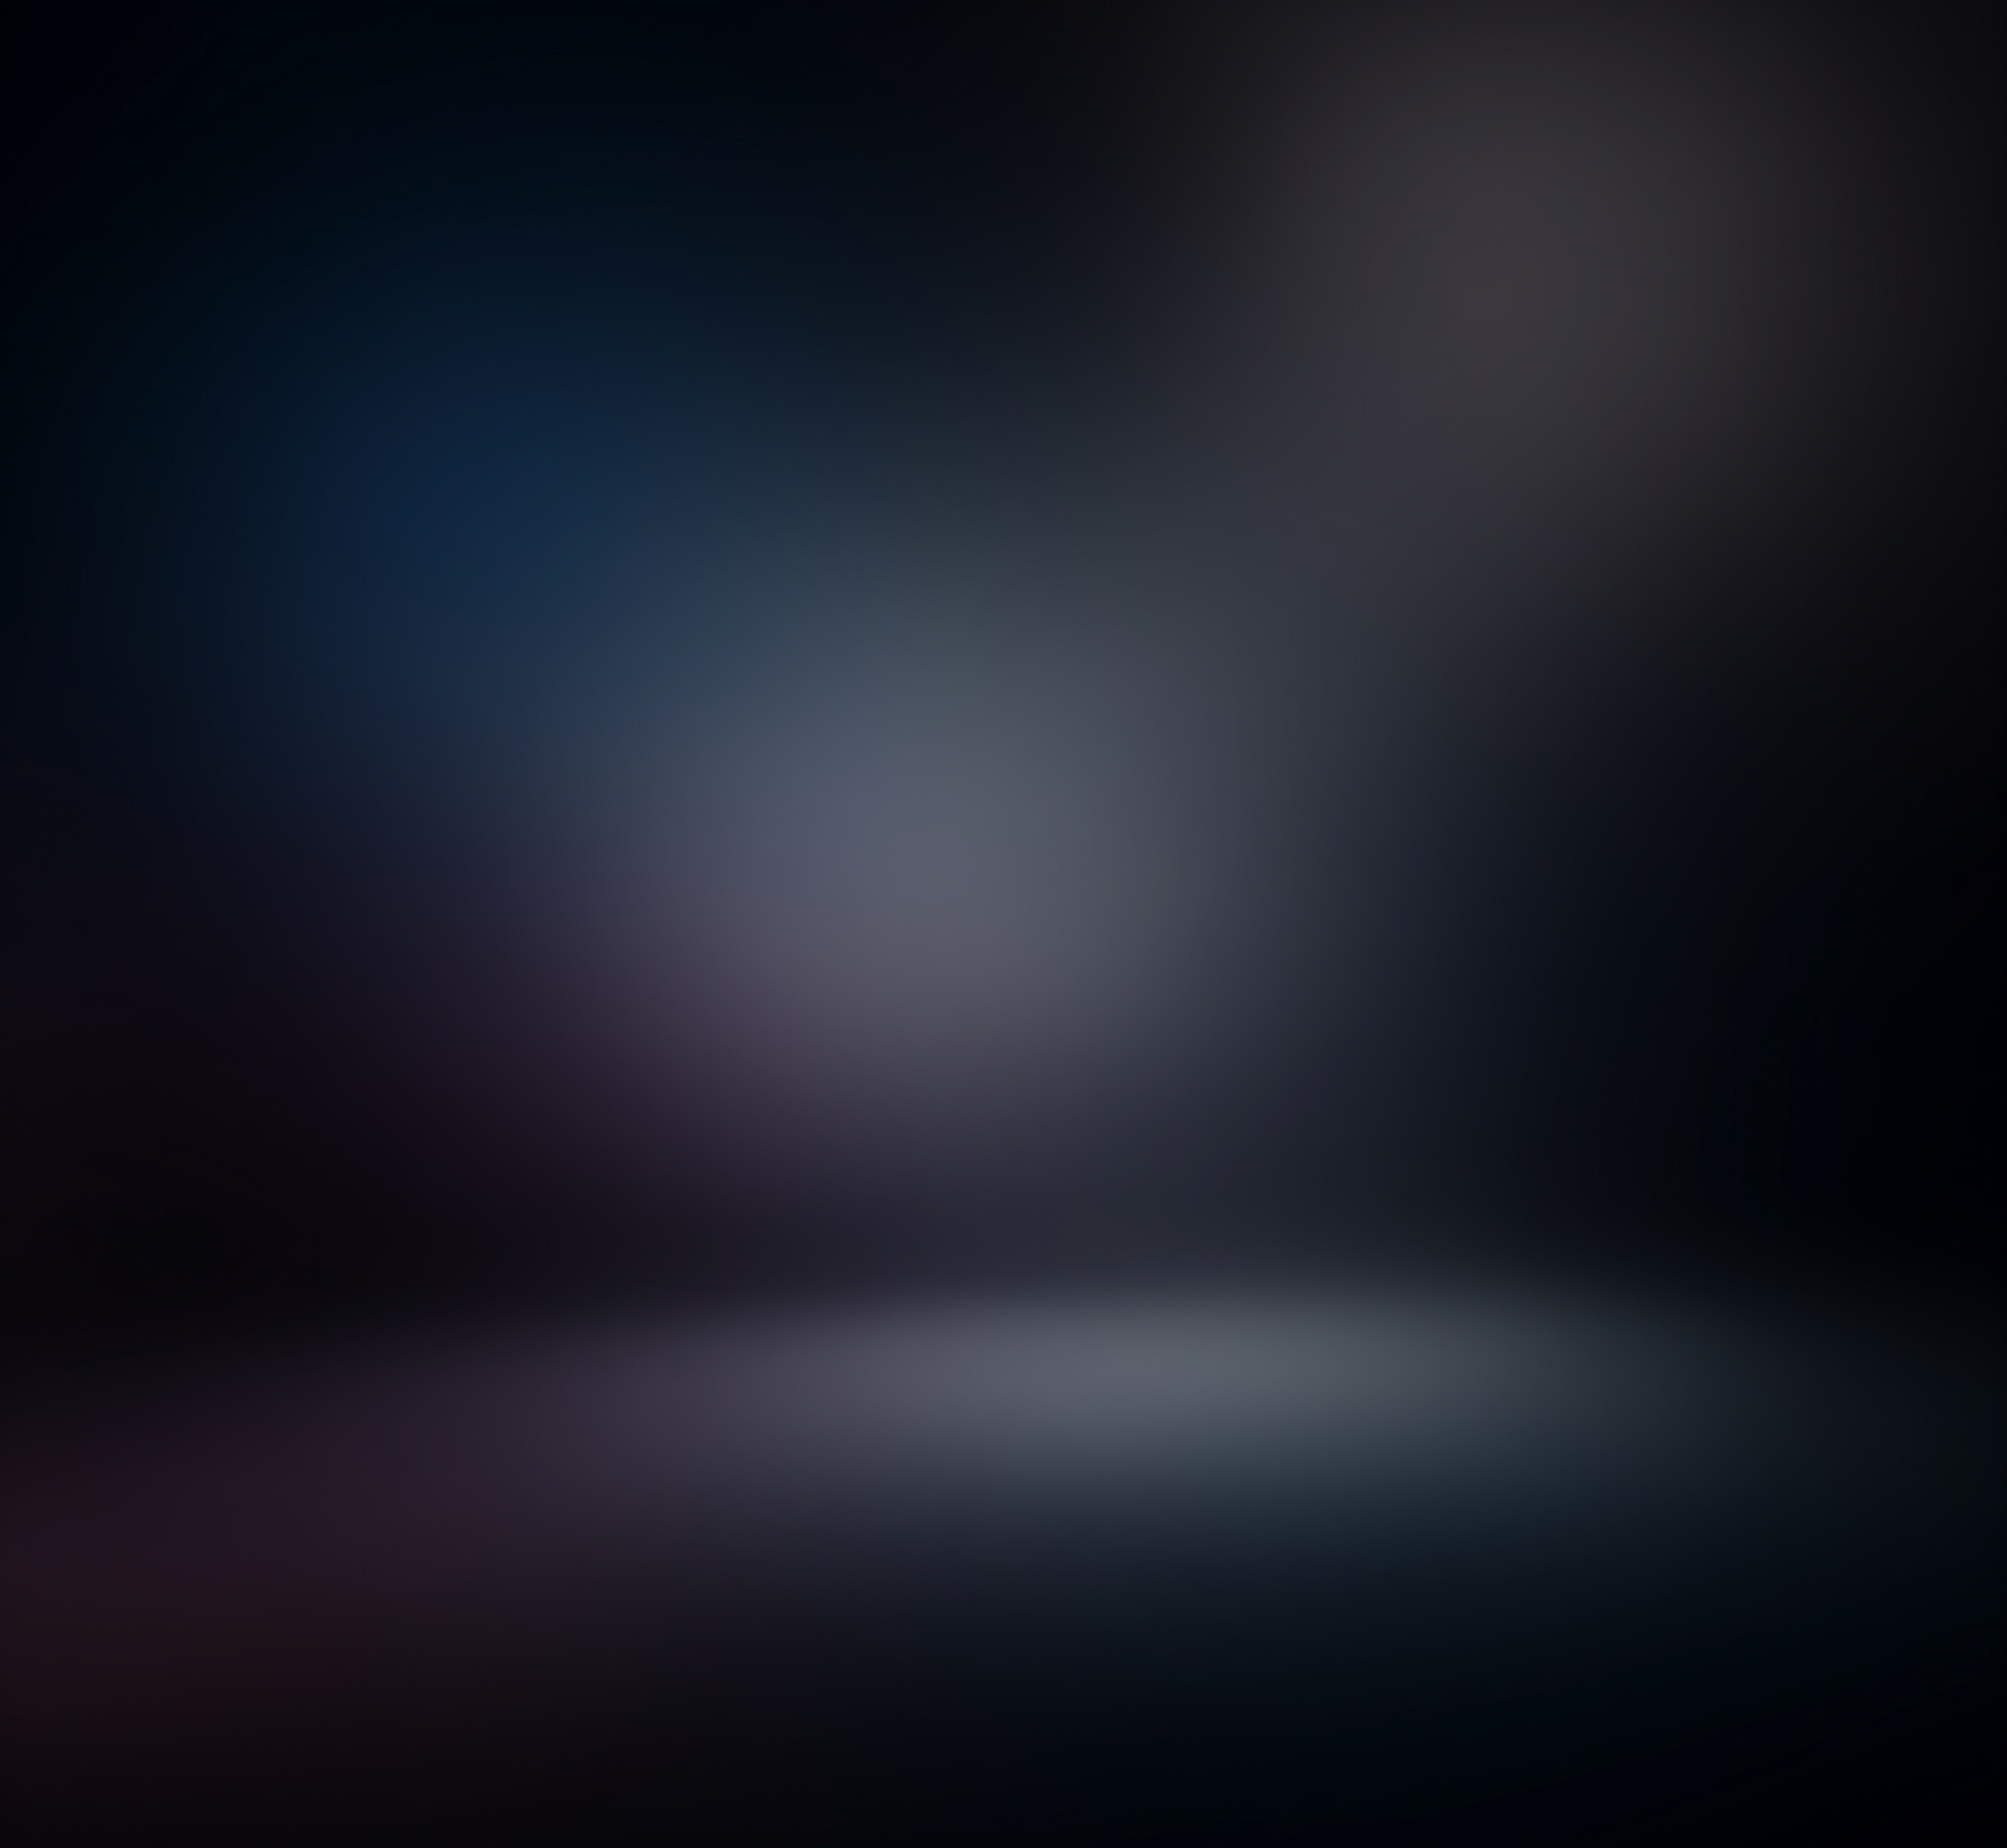
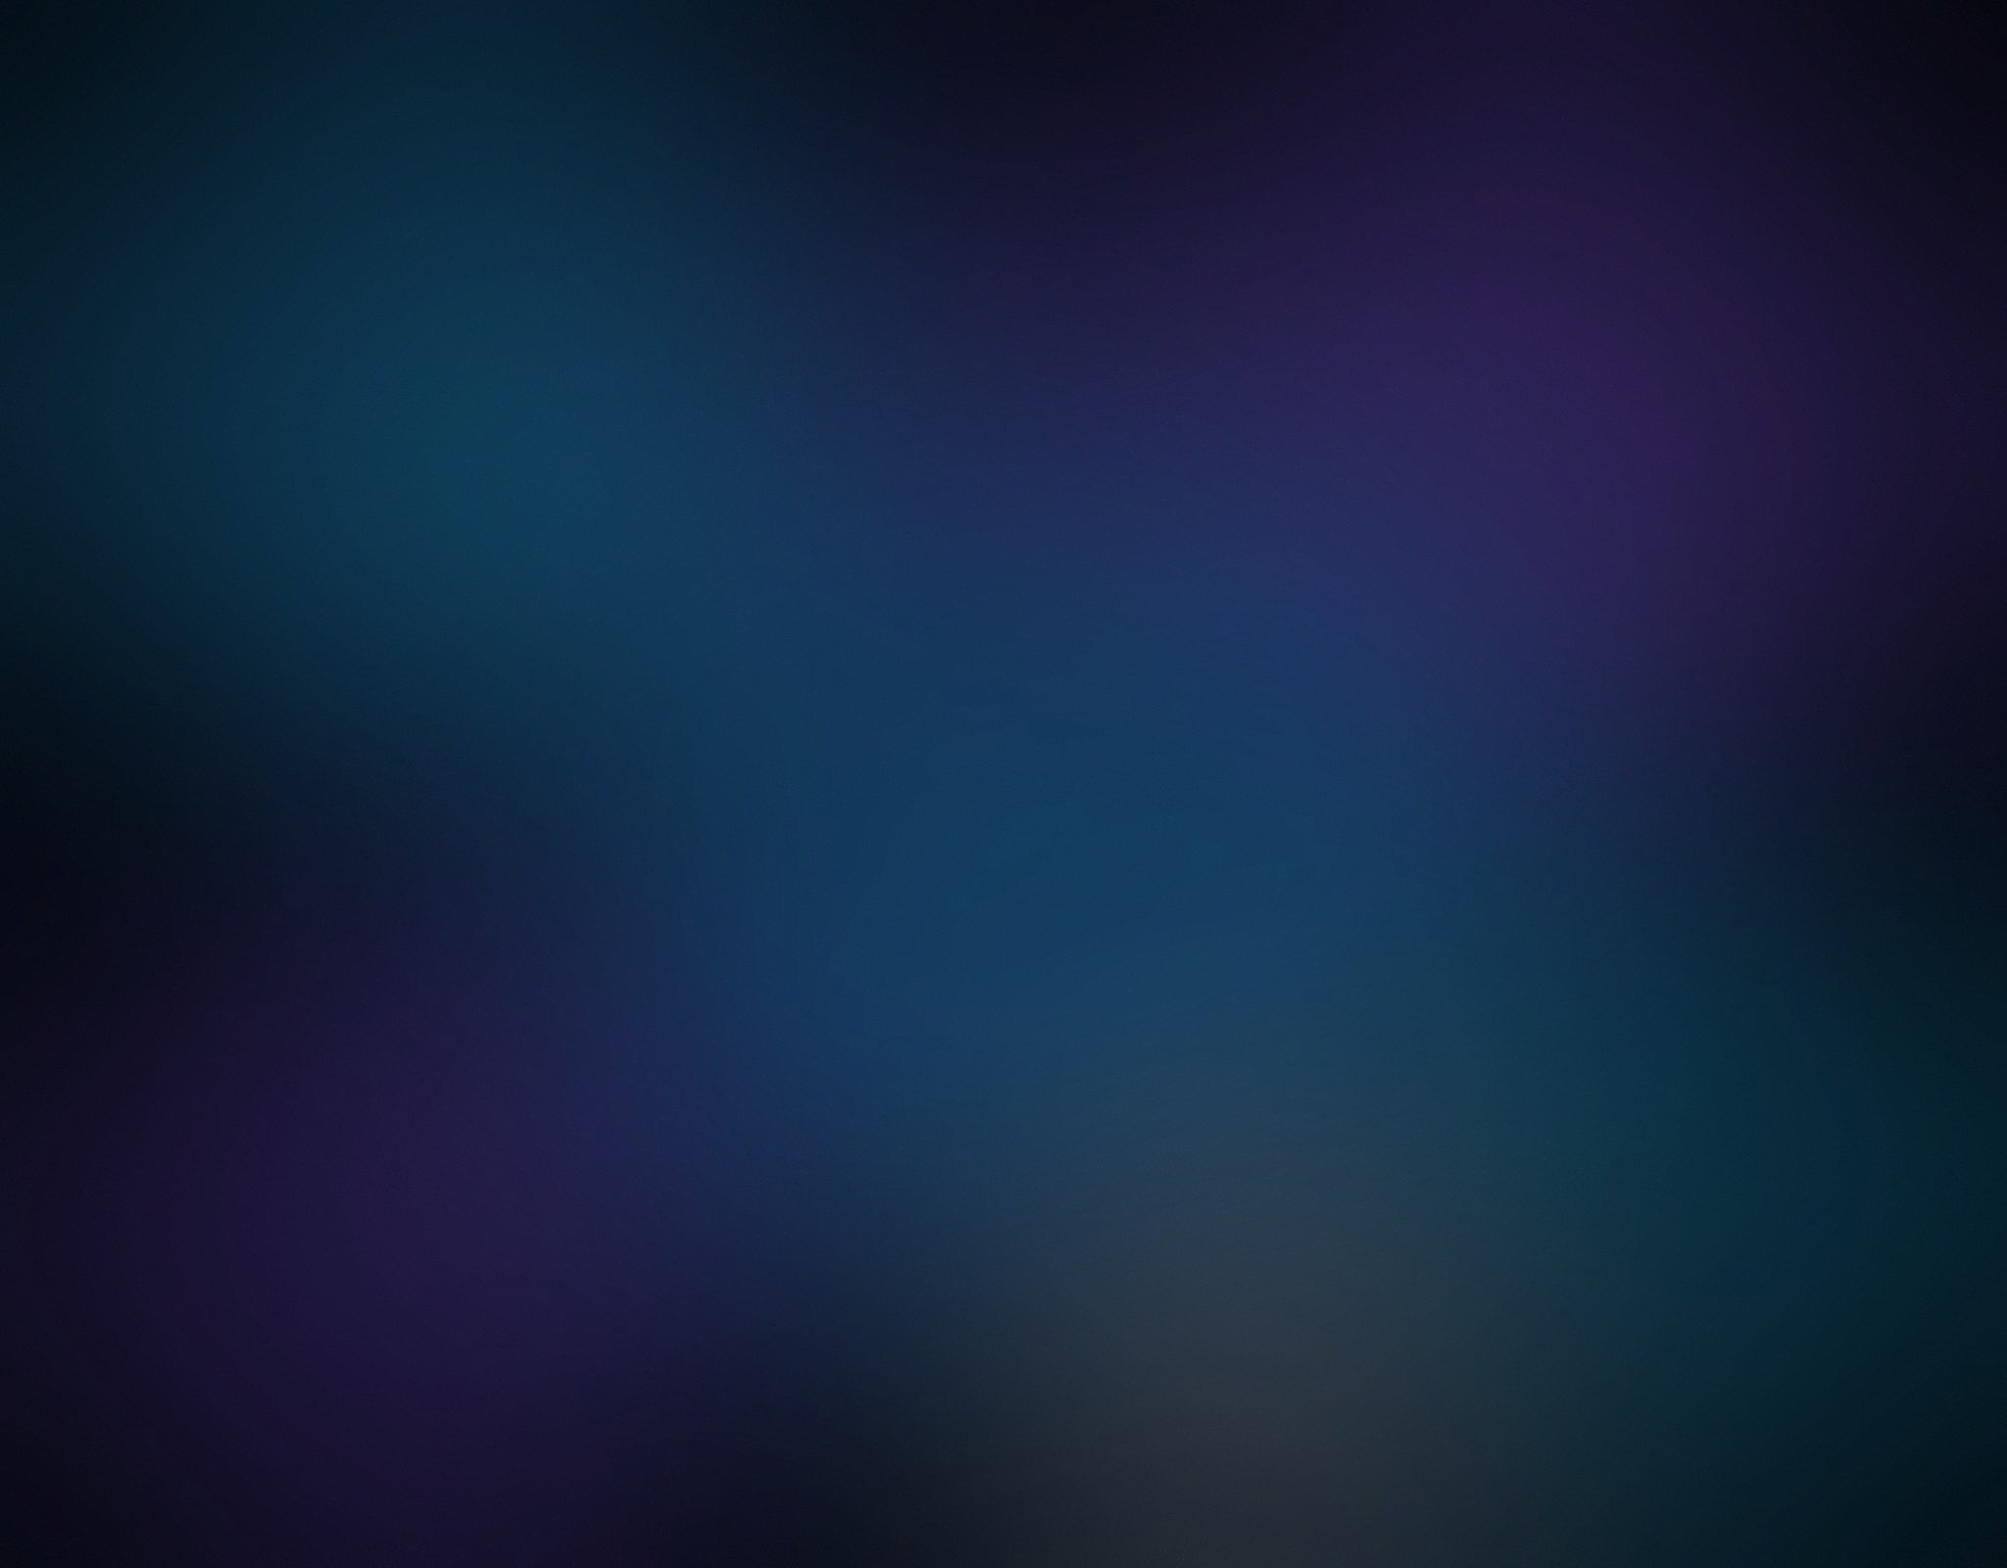
Own background, bluer glass, background credit removed; map: 'At home' instead of 'Secure'

diff --git a/index.html b/index.html
@@ -11,7 +11,7 @@
 html{background:var(--bg)}
 body{margin:0;min-height:100vh;color:var(--ink);font:16px/1.6 system-ui,-apple-system,"Segoe UI",sans-serif;
   background:var(--bg) url("background.jpg") center/cover no-repeat fixed}
-.glass{background:rgba(255,255,255,.04);border:.5px solid rgba(234,235,238,.22);border-radius:18px;padding:20px;
+.glass{background:rgba(56,189,248,.05);border:.5px solid rgba(186,230,253,.25);border-radius:20px;padding:20px;
   -webkit-backdrop-filter:blur(10px) saturate(1.25);backdrop-filter:blur(10px) saturate(1.25);
   box-shadow:3px 3px .5px -3.5px rgba(255,255,255,.30) inset,-2px -2px .5px -2px rgba(255,255,255,.20) inset,0 14px 38px rgba(0,0,0,.34),0 2px 10px rgba(0,0,0,.24)}
 footer{margin-top:2rem;font-size:.75rem;color:#6b7686}
@@ -57,7 +57,7 @@ a{color:var(--acc)}
 <p class="links"><a href="what-you-get/">What you get</a> &middot; <a href="manual-63i1bymc/">Owner manual</a></p>
 <div id="player" role="dialog" aria-label="Demo video"><button aria-label="Close">&times;</button><video controls playsinline></video></div>
 <a class="btn" href="https://t.me/Contact_SAM_bot" target="_blank" rel="noopener">Click here to chat with us on Telegram</a>
-<footer>Background image from the Frosted Glass themes by wessamlauf (<a href="LICENSE-background.txt">MIT licence</a>).</footer>
+<footer>&copy; 2026 Dennis Bouwers. SAM assistant is not made by or affiliated with Anthropic or Telegram. Claude is a trademark of Anthropic.</footer>
 </main>
 <script>
 (function(){var p=document.getElementById('player'),v=p.querySelector('video');

diff --git a/manual-63i1bymc/index.html b/manual-63i1bymc/index.html
@@ -18,7 +18,7 @@ header .wrap{display:flex;align-items:center;justify-content:space-between;gap:1
 .brand b{color:var(--acc)}
 nav a{color:var(--mute);text-decoration:none;margin-left:1rem}
 nav a.active,nav a:hover{color:var(--acc)}
-main.wrap{background:rgba(255,255,255,.04);border:.5px solid rgba(234,235,238,.22);border-radius:18px;padding:8px 28px 28px;margin-bottom:32px;
+main.wrap{background:rgba(56,189,248,.05);border:.5px solid rgba(186,230,253,.25);border-radius:20px;padding:8px 28px 28px;margin-bottom:32px;
   -webkit-backdrop-filter:blur(10px) saturate(1.25);backdrop-filter:blur(10px) saturate(1.25);
   box-shadow:3px 3px .5px -3.5px rgba(255,255,255,.30) inset,-2px -2px .5px -2px rgba(255,255,255,.20) inset,0 14px 38px rgba(0,0,0,.34)}
 h1{font-size:2rem;margin:1.5rem 0 .5rem}
@@ -199,6 +199,6 @@ footer .wrap{padding:0 16px 2rem;font-size:.8rem;color:var(--dim)} footer a{colo
 </ul>
 </main>
 
-<footer><div class="wrap">&copy; 2026 Dennis Bouwers. SAM assistant is not made by or affiliated with Anthropic or Telegram. Claude is a trademark of Anthropic. &middot; <a href="../">Home</a> &middot; Background: Frosted Glass themes by wessamlauf (<a href="../LICENSE-background.txt">MIT</a>)</div></footer>
+<footer><div class="wrap">&copy; 2026 Dennis Bouwers. SAM assistant is not made by or affiliated with Anthropic or Telegram. Claude is a trademark of Anthropic. &middot; <a href="../">Home</a></div></footer>
 </body>
 </html>

diff --git a/what-you-get/index.html b/what-you-get/index.html
@@ -17,7 +17,7 @@ header .wrap{display:flex;align-items:center;justify-content:space-between;gap:1
 .brand b{color:var(--acc)}
 nav a{color:var(--mute);text-decoration:none;margin-left:1rem}
 nav a.active,nav a:hover{color:var(--acc)}
-main.wrap{background:rgba(255,255,255,.04);border:.5px solid rgba(234,235,238,.22);border-radius:18px;padding:8px 28px 28px;margin-bottom:32px;
+main.wrap{background:rgba(56,189,248,.05);border:.5px solid rgba(186,230,253,.25);border-radius:20px;padding:8px 28px 28px;margin-bottom:32px;
   -webkit-backdrop-filter:blur(10px) saturate(1.25);backdrop-filter:blur(10px) saturate(1.25);
   box-shadow:3px 3px .5px -3.5px rgba(255,255,255,.30) inset,-2px -2px .5px -2px rgba(255,255,255,.20) inset,0 14px 38px rgba(0,0,0,.34)}
 h1{font-size:2rem;margin:1.5rem 0 .5rem}
@@ -131,6 +131,6 @@ footer .wrap{padding:0 16px 2rem;font-size:.8rem;color:var(--dim)} footer a{colo
 </main>
 
 
-<footer><div class="wrap">&copy; 2026 Dennis Bouwers. SAM assistant is not made by or affiliated with Anthropic or Telegram. Claude is a trademark of Anthropic. &middot; <a href="../">Home</a> &middot; Background: Frosted Glass themes by wessamlauf (<a href="../LICENSE-background.txt">MIT</a>)</div></footer>
+<footer><div class="wrap">&copy; 2026 Dennis Bouwers. SAM assistant is not made by or affiliated with Anthropic or Telegram. Claude is a trademark of Anthropic. &middot; <a href="../">Home</a></div></footer>
 </body>
 </html>
